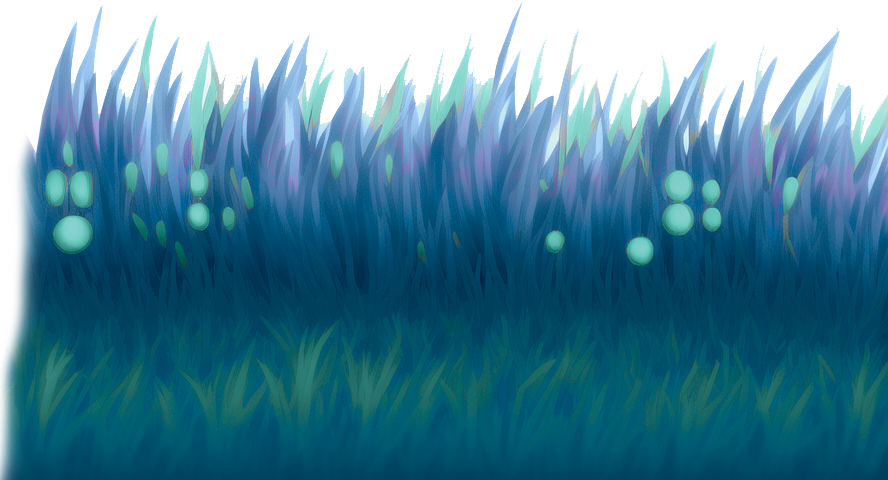
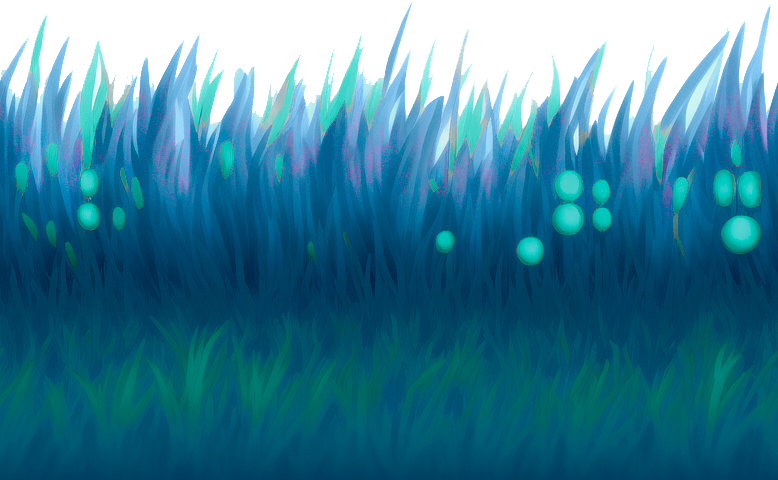
Fixed the grass

diff --git a/scene1.js b/scene1.js
@@ -160,9 +160,9 @@ class Scene1 extends Phaser.Scene {
         this.add.image(340, 463, 'tree').setScale(0.8).setDepth(0.21).setTint(Phaser.Display.Color.GetColor(230, 230, 230));
         this.add.image(1250, 470, 'tree').setScale(0.65).setDepth(-0.2).setScrollFactor(0.8).setTint(Phaser.Display.Color.GetColor(180, 180, 180));
 
-        for (let i = -2; i < 16; i++) {this.add.image(i * 240, 610, 'grass').setScale(0.3).setDepth(-0.2).setScrollFactor(0.9).setTint(Phaser.Display.Color.GetColor(230, 230, 230));}
+        for (let i = -2; i < 16; i++) {this.add.image(i * 233.4, 610, 'grass').setScale(0.3).setDepth(-0.2).setScrollFactor(0.9).setTint(Phaser.Display.Color.GetColor(230, 230, 230));}
 
-        for (let i = -2; i < 16; i++) {this.add.image(i * 240, 690, 'grass').setScale(0.4).setDepth(0.3).setScrollFactor(1.1).setTint(Phaser.Display.Color.GetColor(50, 50, 50)).setAlpha(1);}
+        for (let i = -2; i < 16; i++) {this.add.image(i * 311.2, 690, 'grass').setScale(0.4).setDepth(0.3).setScrollFactor(1.1).setTint(Phaser.Display.Color.GetColor(50, 50, 50)).setAlpha(0.9);}
 
         this.anims.create({key: 'left', frames: this.anims.generateFrameNumbers('beecon_full', { start: 1, end: 0 }), frameRate: 10, repeat: -1});
         this.anims.create({key: 'right', frames: this.anims.generateFrameNumbers('beecon_full', { start: 4, end: 5 }), frameRate: 10, repeat: -1});
